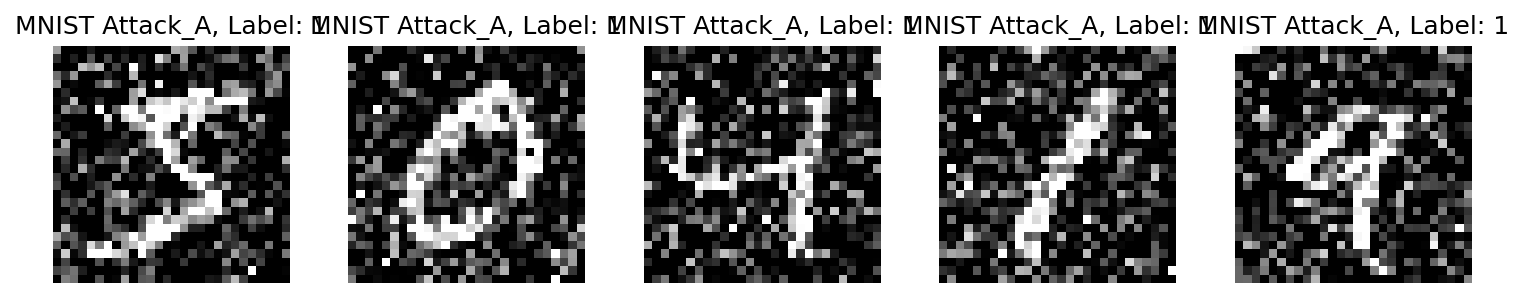
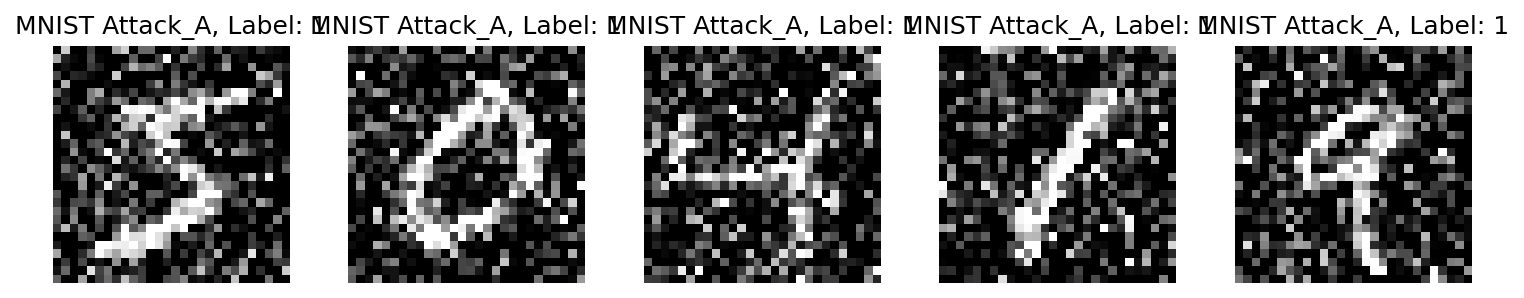
Optimize dataloading and training for GPU/AMP
Introduce make_dataloader with GPU-optimised defaults (pin_memory, non_blocking transfers, num_workers platform handling, persistent_workers). Replace direct DataLoader usages in CH2/step1.py and CH2/step2.py and increase BATCH_SIZE from 64 to 256. Switch model to emit raw logits and use BCEWithLogitsLoss for numerically-stable training. Enhance train_model to use AMP (autocast + GradScaler), non_blocking .to(), optimizer.zero_grad(set_to_none=True), and proper scaler.step()/update(); adjust evaluate_model to compute probabilities via sigmoid from logits. Minor docstring/comment updates and an updated plot image.

diff --git a/CH2/lib.py b/CH2/lib.py
@@ -12,6 +12,9 @@ Both step1.py and step2.py import from this module.  It contains:
     Visualisation
         visualize_samples    — render a row of labelled image samples
 
+    DataLoader
+        make_dataloader      — create a DataLoader with GPU-optimised settings
+
     Model
         AnomalyCNN           — 3-block CNN binary anomaly classifier
 
@@ -240,6 +243,50 @@ def check_pythia_available(data_dir: Path | str = Path("./pythia")) -> None:
         sys.exit(1)
 
 
+def make_dataloader(
+    dataset,
+    batch_size: int,
+    shuffle: bool = False,
+) -> DataLoader:
+    """Create a DataLoader with GPU-optimised settings.
+
+    When CUDA is available, enables ``pin_memory`` (allows async DMA
+    transfers to GPU) and ``non_blocking`` transfers.  Uses
+    ``num_workers=4`` for background prefetching and
+    ``persistent_workers=True`` to avoid re-spawning between epochs.
+    Falls back to ``num_workers=0`` when CUDA is not present (CPU-only
+    inference is rarely bottlenecked by data loading).
+
+    Parameters
+    ----------
+    dataset : Dataset
+        Any PyTorch Dataset.
+    batch_size : int
+        Number of samples per batch.
+    shuffle : bool
+        Whether to shuffle on each epoch (default ``False``).
+
+    Returns
+    -------
+    DataLoader
+        Optimised DataLoader ready for training or evaluation.
+    """
+    cuda = torch.cuda.is_available()
+    # On Windows (spawn start method) num_workers > 0 causes worker crashes
+    # with complex in-memory dataset chains. Data is already in RAM so there
+    # is no I/O bottleneck; the GPU compute path benefits from pin_memory alone.
+    import os as _os
+    num_workers = 0 if _os.name == "nt" else 4
+    return DataLoader(
+        dataset,
+        batch_size=batch_size,
+        shuffle=shuffle,
+        pin_memory=cuda,
+        num_workers=num_workers,
+        persistent_workers=num_workers > 0,
+    )
+
+
 def split_train_test(
     dataset,
     train_ratio: float = 0.8,
@@ -332,10 +379,13 @@ class AnomalyCNN(nn.Module):
 
     followed by a two-layer classification head::
 
-        Linear(flatten_size → 128) → ReLU → Linear(128 → 1) → Sigmoid
+        Linear(flatten_size → 128) → ReLU → Linear(128 → 1)  [raw logit]
 
-    The Sigmoid output :math:`\\hat{y} \\in (0, 1)` represents the
-    probability that the input is an anomaly (class 1).
+    The model outputs a **raw logit** :math:`z \in \mathbb{R}`.  Pass it to
+    ``torch.nn.BCEWithLogitsLoss`` during training and apply
+    ``torch.sigmoid`` in evaluation to convert to a probability in
+    :math:`(0, 1)`.  This avoids numerical instability and is safe for
+    AMP mixed-precision training on Tensor Core hardware.
 
     Flatten size is inferred automatically at construction time via a
     dummy forward pass, so the model handles any square input:
@@ -405,7 +455,7 @@ class AnomalyCNN(nn.Module):
         x = self.pool(F.relu(self.conv3(x)))   # (B, 64, H/8, W/8)
         x = x.view(-1, self.flatten_size)
         x = F.relu(self.fc1(x))
-        return torch.sigmoid(self.fc2(x))      # (B, 1)
+        return self.fc2(x)                     # (B, 1)  raw logit
 
 
 # ===========================================================================
@@ -460,7 +510,7 @@ def train_model(
     Notes
     -----
     Labels are reshaped via ``.view(-1, 1).float()`` so their shape
-    (B, 1) matches the model's sigmoid output for BCELoss compatibility.
+    (B, 1) matches the model's raw logit output for ``BCEWithLogitsLoss``.
     """
     best_wts = copy.deepcopy(model.state_dict())
     best_val_loss = float("inf")
@@ -468,7 +518,9 @@ def train_model(
 
     device = torch.device("cuda" if torch.cuda.is_available() else "cpu")
     model = model.to(device)
-    print(f"  [Device: {device}]")
+    use_amp = device.type == "cuda"
+    scaler = torch.amp.GradScaler(device.type, enabled=use_amp)
+    print(f"  [Device: {device} | AMP: {use_amp}]")
 
     for epoch in range(num_epochs):
         # ------------------------------------------------------------------
@@ -478,15 +530,17 @@ def train_model(
         running_loss = 0.0
 
         for inputs, labels in train_loader:
-            inputs = inputs.to(device)
+            inputs = inputs.to(device, non_blocking=True)
             # BCELoss: targets must be float with shape (B, 1) matching outputs
-            labels = labels.to(device).view(-1, 1).float()
+            labels = labels.to(device, non_blocking=True).view(-1, 1).float()
 
-            optimizer.zero_grad()
-            outputs = model(inputs)
-            loss = criterion(outputs, labels)
-            loss.backward()
-            optimizer.step()
+            optimizer.zero_grad(set_to_none=True)
+            with torch.amp.autocast(device.type, enabled=use_amp):
+                outputs = model(inputs)
+                loss = criterion(outputs, labels)
+            scaler.scale(loss).backward()
+            scaler.step(optimizer)
+            scaler.update()
 
             running_loss += loss.item() * inputs.size(0)
 
@@ -500,10 +554,11 @@ def train_model(
 
         with torch.no_grad():
             for inputs, labels in val_loader:
-                inputs = inputs.to(device)
-                labels = labels.to(device).view(-1, 1).float()
-                outputs = model(inputs)
-                loss = criterion(outputs, labels)
+                inputs = inputs.to(device, non_blocking=True)
+                labels = labels.to(device, non_blocking=True).view(-1, 1).float()
+                with torch.amp.autocast(device.type, enabled=use_amp):
+                    outputs = model(inputs)
+                    loss = criterion(outputs, labels)
                 val_loss += loss.item() * inputs.size(0)
 
         epoch_val_loss = val_loss / len(val_loader.dataset)
@@ -580,19 +635,23 @@ def evaluate_model(
 
     all_labels: list = []
     all_probs: list = []
+    use_amp = device.type == "cuda"
 
     with torch.no_grad():
         for inputs, labels in test_loader:
-            inputs = inputs.to(device)
-            labels = labels.to(device).float()
+            inputs = inputs.to(device, non_blocking=True)
+            labels = labels.to(device, non_blocking=True).float()
 
-            outputs = model(inputs).squeeze()
+            with torch.amp.autocast(device.type, enabled=use_amp):
+                logits = model(inputs).squeeze()
 
             # Guard: if batch_size == 1, squeeze collapses to scalar
-            if outputs.dim() == 0:
-                outputs = outputs.unsqueeze(0)
+            if logits.dim() == 0:
+                logits = logits.unsqueeze(0)
 
-            all_probs.extend(outputs.cpu().numpy())
+            # Convert raw logits → probabilities in FP32 for metric computation
+            probs = torch.sigmoid(logits.float())
+            all_probs.extend(probs.cpu().numpy())
             all_labels.extend(labels.cpu().numpy())
 
     all_labels = np.array(all_labels)

diff --git a/CH2/step1.py b/CH2/step1.py
@@ -52,6 +52,7 @@ from lib import (
     load_pythia_data,
     check_pythia_available,
     split_train_test,
+    make_dataloader,
     visualize_samples,
     AnomalyCNN,
     train_model,
@@ -64,7 +65,7 @@ from attacks.contamination import make_gaussian_attack, make_ood_attack
 # ---------------------------------------------------------------------------
 # Hyperparameters
 # ---------------------------------------------------------------------------
-BATCH_SIZE = 64
+BATCH_SIZE = 256
 NUM_EPOCHS = 15
 PATIENCE = 3
 
@@ -212,8 +213,9 @@ def main() -> None:
 
     model_pythia = AnomalyCNN(input_size=70)  # flatten_size = 8×8×64 = 4096
 
-    # BCELoss is shared — it has no learnable parameters
-    criterion = nn.BCELoss()
+    # BCEWithLogitsLoss fuses sigmoid + BCE in a numerically stable way
+    # and is safe for AMP mixed-precision training.
+    criterion = nn.BCEWithLogitsLoss()
     optimizer_mnist = optim.Adam(model_mnist.parameters(), lr=0.001)
     optimizer_pythia = optim.Adam(model_pythia.parameters(), lr=0.001)
 
@@ -223,10 +225,10 @@ def main() -> None:
     print("\n--- KOMÓRKA 8: TRENING (BASELINE) ---")
 
     # DataLoaders — shuffle=True for train to prevent ordering artefacts
-    train_loader_mnist = DataLoader(train_dataset, batch_size=BATCH_SIZE, shuffle=True)
-    val_loader_mnist = DataLoader(val_dataset, batch_size=BATCH_SIZE, shuffle=False)
-    train_loader_pythia = DataLoader(pythia_train_dataset, batch_size=BATCH_SIZE, shuffle=True)
-    val_loader_pythia = DataLoader(pythia_val_dataset, batch_size=BATCH_SIZE, shuffle=False)
+    train_loader_mnist  = make_dataloader(train_dataset,        BATCH_SIZE, shuffle=True)
+    val_loader_mnist    = make_dataloader(val_dataset,          BATCH_SIZE)
+    train_loader_pythia = make_dataloader(pythia_train_dataset, BATCH_SIZE, shuffle=True)
+    val_loader_pythia   = make_dataloader(pythia_val_dataset,   BATCH_SIZE)
 
     print("\n>>> TRENING: MNIST (Clean + Attack_A) <<<")
     model_mnist = train_model(
@@ -245,8 +247,8 @@ def main() -> None:
     # -----------------------------------------------------------------------
     print("\n--- KOMÓRKA 9: EWALUACJA — TEST_A (ZNANY ATAK) ---")
 
-    test_a_loader_mnist = DataLoader(test_a_dataset, batch_size=BATCH_SIZE)
-    test_a_loader_pythia = DataLoader(pythia_test_a_dataset, batch_size=BATCH_SIZE)
+    test_a_loader_mnist  = make_dataloader(test_a_dataset,        BATCH_SIZE)
+    test_a_loader_pythia = make_dataloader(pythia_test_a_dataset, BATCH_SIZE)
 
     print("\n>>> EWALUACJA MNIST (Test_A) <<<")
     res_mnist_a = evaluate_model(model_mnist, test_a_loader_mnist)
@@ -259,8 +261,8 @@ def main() -> None:
     # -----------------------------------------------------------------------
     print("\n--- KOMÓRKA 10: EWALUACJA — TEST_B (NIEZNANY ATAK) ---")
 
-    test_b_loader_mnist = DataLoader(test_b_dataset, batch_size=BATCH_SIZE)
-    test_b_loader_pythia = DataLoader(pythia_test_b_dataset, batch_size=BATCH_SIZE)
+    test_b_loader_mnist  = make_dataloader(test_b_dataset,        BATCH_SIZE)
+    test_b_loader_pythia = make_dataloader(pythia_test_b_dataset, BATCH_SIZE)
 
     print("\n>>> EWALUACJA MNIST (Test_B: OOD) <<<")
     res_mnist_b = evaluate_model(model_mnist, test_b_loader_mnist)

diff --git a/CH2/step2.py b/CH2/step2.py
@@ -66,6 +66,7 @@ from lib import (
     check_pythia_available,
     evaluate_model,
     load_pythia_data,
+    make_dataloader,
     prepare_clean_data,
     save_results,
     split_train_test,
@@ -82,7 +83,7 @@ from attacks.contamination import (
 # ---------------------------------------------------------------------------
 # Global hyperparameters
 # ---------------------------------------------------------------------------
-BATCH_SIZE = 64
+BATCH_SIZE = 256
 NUM_EPOCHS = 15
 PATIENCE = 3
 
@@ -217,16 +218,16 @@ def run_progressive_training(
         # ------------------------------------------------------------------
         # DataLoaders
         # ------------------------------------------------------------------
-        train_loader = DataLoader(train_ds, batch_size=BATCH_SIZE, shuffle=True)
-        val_loader = DataLoader(val_ds, batch_size=BATCH_SIZE, shuffle=False)
-        test_loader = DataLoader(test_ds, batch_size=BATCH_SIZE, shuffle=False)
+        train_loader = make_dataloader(train_ds, BATCH_SIZE, shuffle=True)
+        val_loader   = make_dataloader(val_ds,   BATCH_SIZE)
+        test_loader  = make_dataloader(test_ds,  BATCH_SIZE)
 
         # ------------------------------------------------------------------
         # Fresh model + optimiser for each round
         # (models trained on n attacks are independent experiments)
         # ------------------------------------------------------------------
         model = AnomalyCNN(input_size=input_size)
-        criterion = nn.BCELoss()
+        criterion = nn.BCEWithLogitsLoss()
         optimizer = torch.optim.Adam(model.parameters(), lr=0.001)
 
         from lib import train_model  # local import to keep namespace clean
